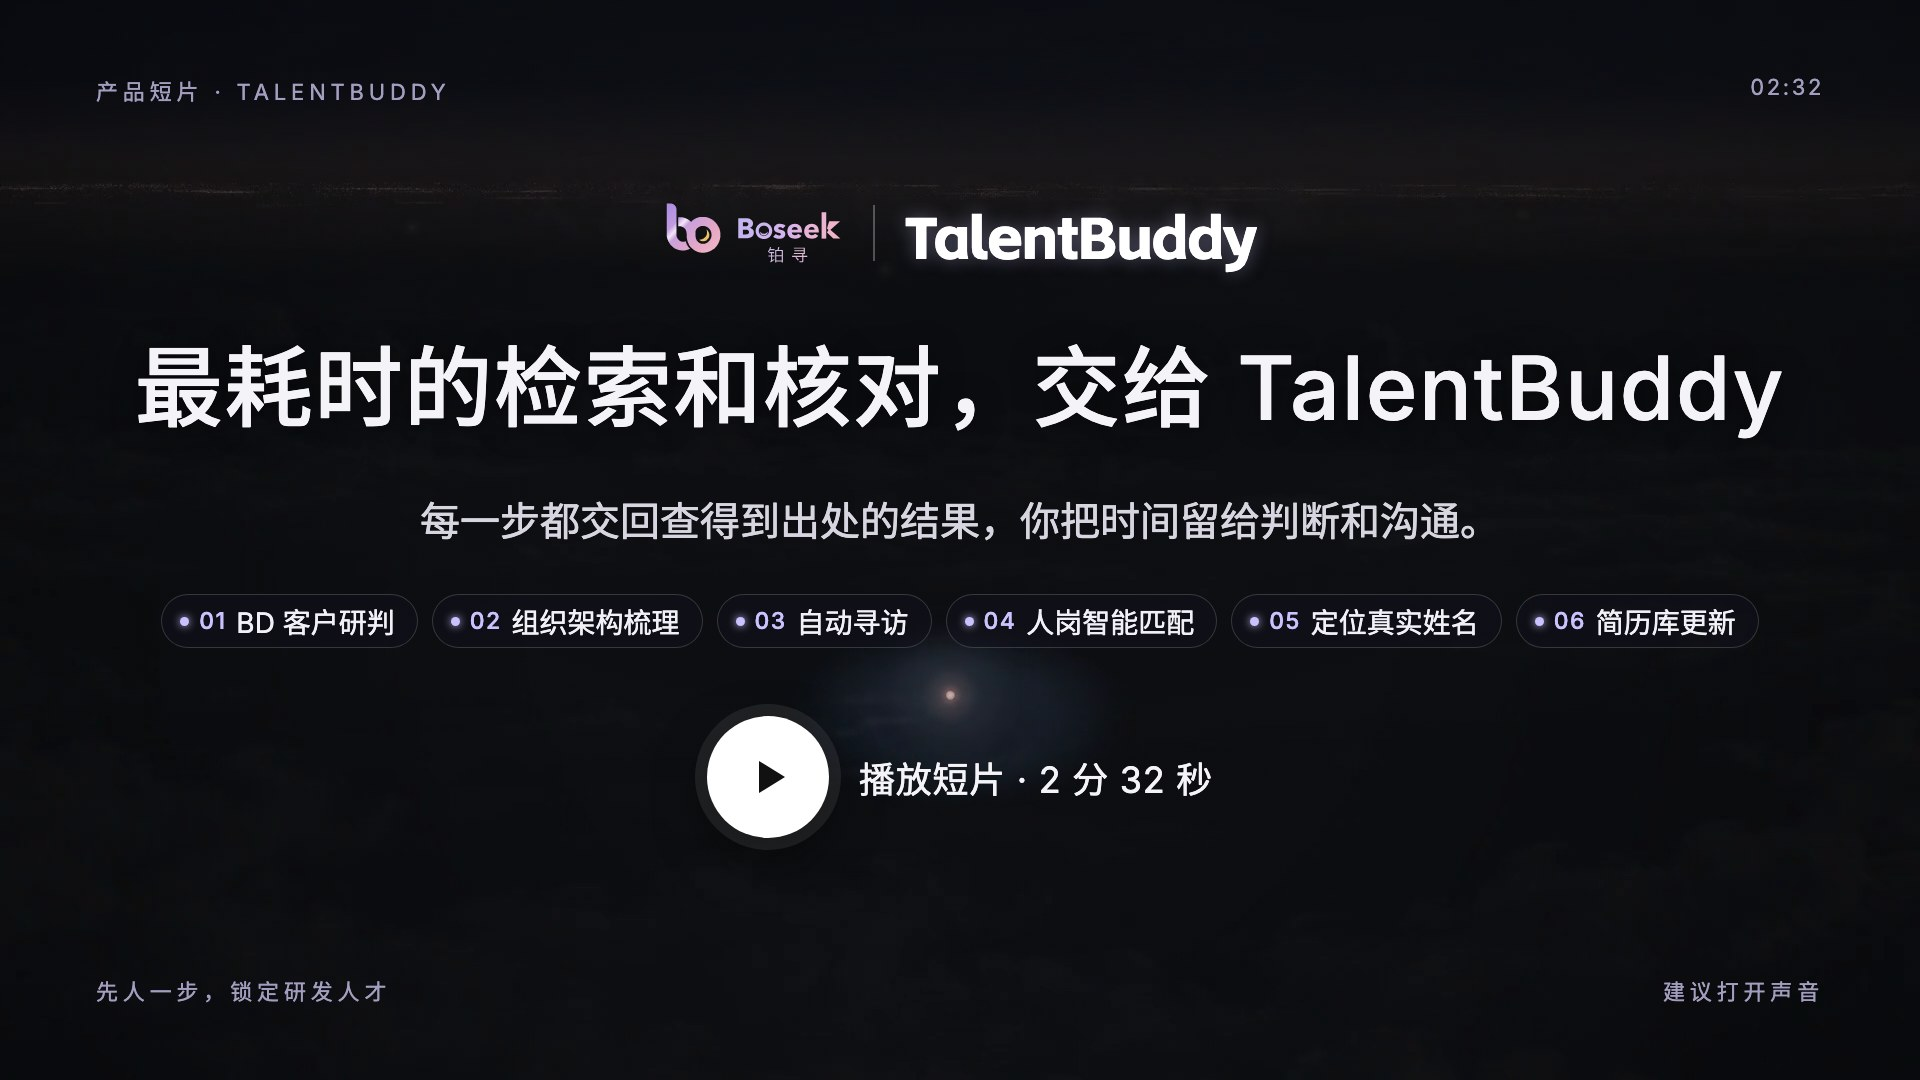
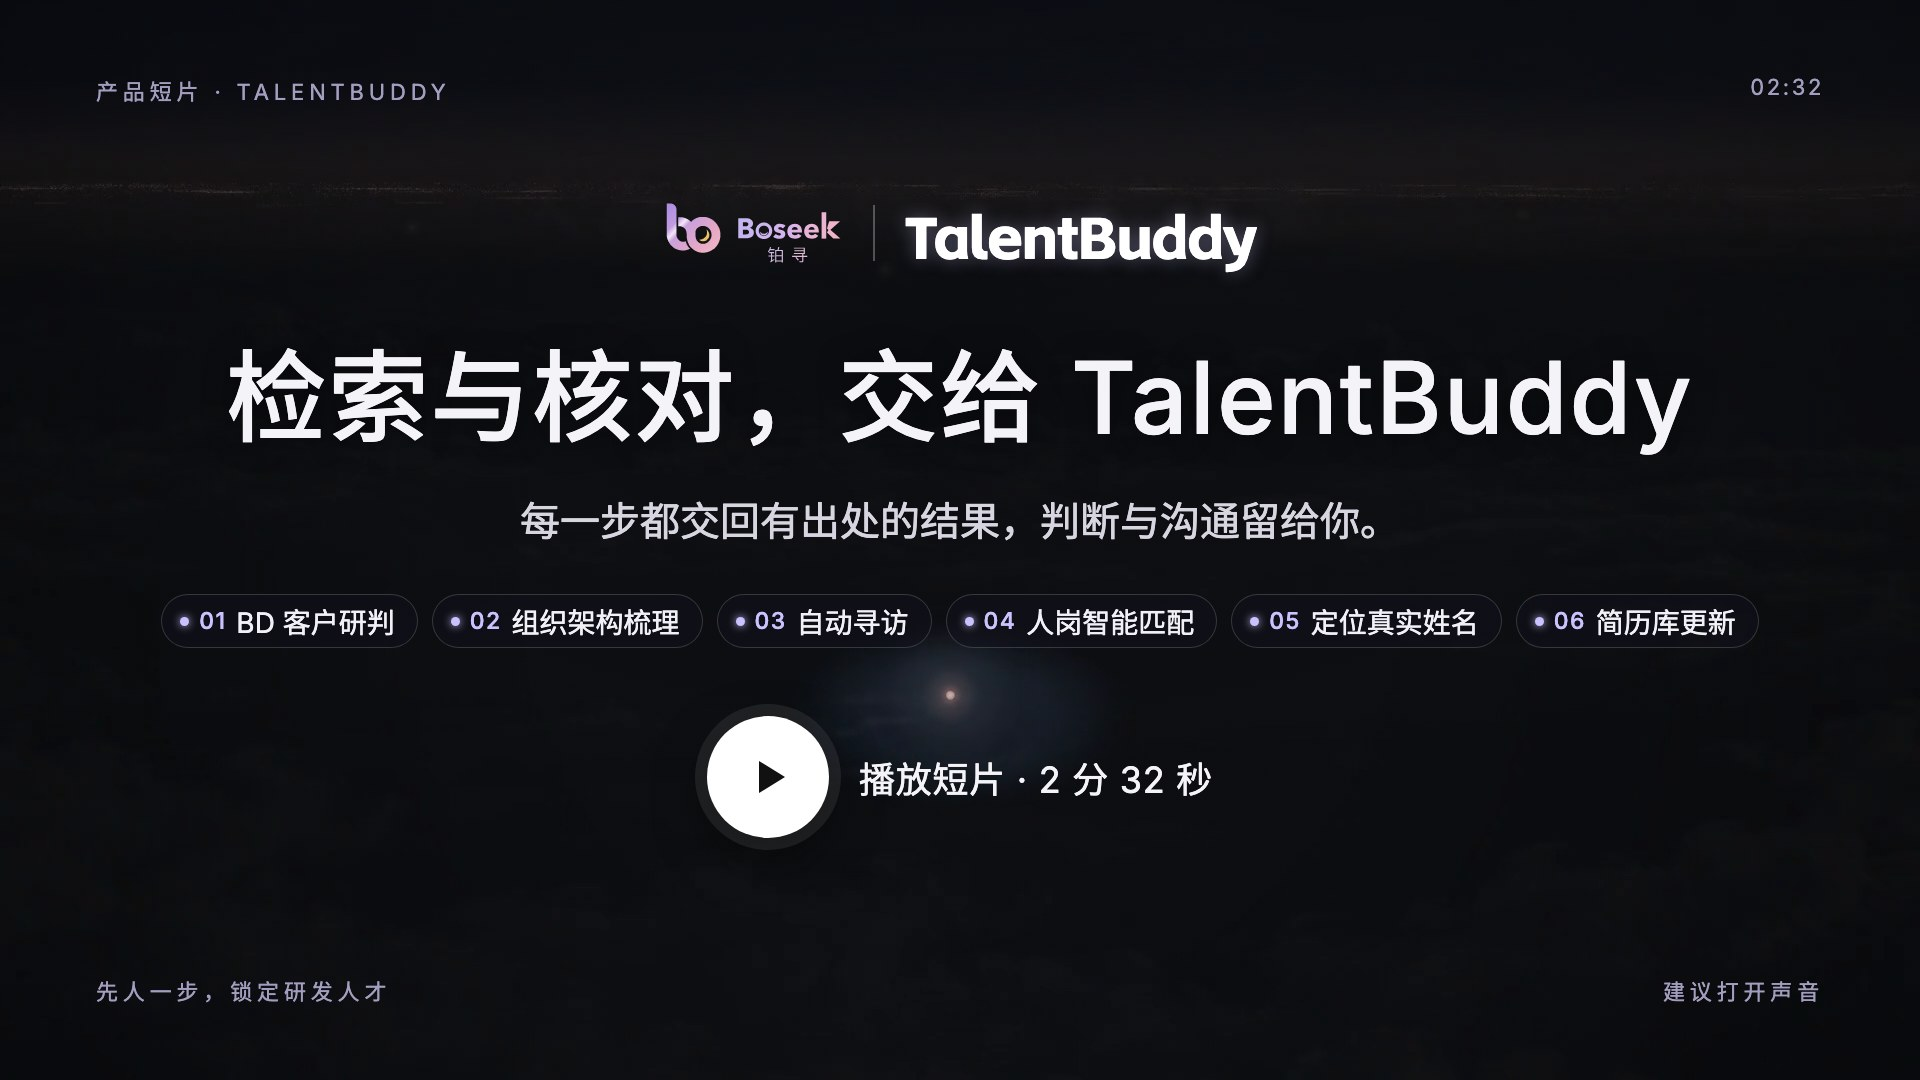
标题统一为主标语的文风：短片区“检索与核对，交给 TalentBuddy／判断与沟通，留给你”，能力区“六个环节，环环交付”，六张能力卡标题压成四字节奏，研发领域“跨行研发，一并覆盖”；短片封面同步；英文同步

Changed region(s): [[0.0625, 0.3056, 0.9375, 0.4278], [0.2188, 0.4583, 0.7812, 0.5194]]

diff --git a/public/landing-redesign/en/index.html b/public/landing-redesign/en/index.html
@@ -294,8 +294,8 @@
         <div class="n-wrap">
           <p class="n-kicker">Product video · 2:32</p>
           <h2 class="n-display" id="n-intro-title">
-            <span>Hand the searching and checking to TalentBuddy.</span>
-            <span>Spend your time on judgment and conversations.</span>
+            <span>Searching and checking go to TalentBuddy.</span>
+            <span>Judgment and conversations stay with you.</span>
           </h2>
           <p class="n-lede">
             From BD client research, org charts, sourcing and matching to identity checks and talent pool updates, every step hands back a sourced result.
@@ -324,7 +324,7 @@
         <div class="n-wrap">
           <div class="n-section-head n-section-head-wide">
             <p class="n-kicker">01 · Capabilities</p>
-            <h2 class="n-h2" id="n-caps-title">Six stages, six results you can use</h2>
+            <h2 class="n-h2" id="n-caps-title">Six stages, six deliverables</h2>
             <p class="n-sub">Matched shortlists, sourced candidate lists, identity checks, BD client research, change alerts and org charts, each with its source. Who to contact, and how to approach them, is your call.</p>
           </div>
 
@@ -358,7 +358,7 @@
               <div class="n-step-text">
                 <p class="n-step-meta"><i>Find</i><span>01 / 06</span></p>
                 <p class="n-pain">The JD names a technical field and years of experience, your database holds thousands of CVs, and comparing them one by one takes most of a day.</p>
-                <h3 id="n-step-match">Job matching: a shortlist from your CV database</h3>
+                <h3 id="n-step-match">Job matching: from thousands of CVs to a shortlist</h3>
                 <p>It breaks the JD into core skills, industry background and must-haves, then searches the full text of your CVs and their structured fields together. You get back a shortlist ranked by match score, with each candidate’s strengths, risks and why we recommend them, and one click takes you to the original source. It works the other way too: give it a CV and it finds the live searches that fit.</p>
                 <a class="n-more" href="use-cases/job-matching/">More on job matching</a>
                 <span class="n-step-bar" aria-hidden="true"><i class="is-on"></i><i></i><i></i><i></i><i></i><i></i></span>
@@ -394,7 +394,7 @@
               <div class="n-step-text">
                 <p class="n-step-meta"><i>Find</i><span>02 / 06</span></p>
                 <p class="n-pain">The clearest evidence of R&amp;D talent is in papers, patents and code. Search only on recruiting platforms, and many people never turn up.</p>
-                <h3 id="n-step-sourcing">Sourcing: find the people recruiting platforms miss</h3>
+                <h3 id="n-step-sourcing">Sourcing: beyond the platforms</h3>
                 <p>Working from the role’s requirements, it searches public information, papers, patents, open-source code and your CV database together, and checks the same person’s records from different places before merging them. You get back a ranked candidate list, with a note of which sources have been searched and which are not yet covered.</p>
                 <a class="n-more" href="use-cases/finding-candidates/">How headhunters find candidates</a>
                 <span class="n-step-bar" aria-hidden="true"><i></i><i class="is-on"></i><i></i><i></i><i></i><i></i></span>
@@ -427,7 +427,7 @@
               <div class="n-step-text">
                 <p class="n-step-meta"><i>Know</i><span>03 / 06</span></p>
                 <p class="n-pain">On papers it’s initials, in forums it’s an alias, and in a code repository it’s only a user ID. Working out who someone really is means comparing back and forth.</p>
-                <h3 id="n-step-identity">Identity checks: from an alias, initials or ID to who they are</h3>
+                <h3 id="n-step-identity">Identity checks: who’s behind the alias</h3>
                 <p>It cross-checks career history, timelines, research areas and public work, and rules out namesakes. You get back a written finding: who the person is, what that rests on, which namesakes were ruled out, how sure it is, and how you might reach them. It uses only public professional information and the material you provide, and anything uncertain is marked “To confirm”.</p>
                 <a class="n-more" href="use-cases/same-name-candidates/">More on identity checks</a>
                 <span class="n-step-bar" aria-hidden="true"><i></i><i></i><i class="is-on"></i><i></i><i></i><i></i></span>
@@ -454,7 +454,7 @@
               <div class="n-step-text">
                 <p class="n-step-meta"><i>Know</i><span>04 / 06</span></p>
                 <p class="n-pain">A funding round, a new R&amp;D department, fresh openings: there are plenty of signals, but not every one turns into a mandate.</p>
-                <h3 id="n-step-bd">BD client research (for headhunters): know which clients are worth pursuing</h3>
+                <h3 id="n-step-bd">BD client research (for headhunters): know who’s worth pursuing</h3>
                 <p>It looks at the industry outlook, funding news, the founders’ backgrounds, and hiring and business signals together. You get back BD client research that rates the real need, the ability to pay and the risk in working with them as “Sourced”, “To confirm” or “At risk”, with the reasons, plus the decision chain and a follow-up priority. Whether to pursue it is your call.</p>
                 <a class="n-more" href="use-cases/business-development/">More on business development</a>
                 <span class="n-step-bar" aria-hidden="true"><i></i><i></i><i></i><i class="is-on"></i><i></i><i></i></span>
@@ -486,7 +486,7 @@
               <div class="n-step-text">
                 <p class="n-step-meta"><i>Keep</i><span>05 / 06</span></p>
                 <p class="n-pain">R&amp;D people change roles, switch fields and publish new work quickly, and what your CV database says goes stale in a year or two.</p>
-                <h3 id="n-step-network">Talent pool updates: timely alerts when candidates move</h3>
+                <h3 id="n-step-network">Talent pool updates: alerts when candidates move</h3>
                 <p>For the candidates you choose, it regularly checks public profiles, papers and patents. When a role, field or responsibility changes, you get a change alert with its source. Nothing goes into your talent pool until you confirm it, and it never edits your records on its own.</p>
                 <a class="n-more" href="use-cases/talent-pool/">More on talent pools</a>
                 <span class="n-step-bar" aria-hidden="true"><i></i><i></i><i></i><i></i><i class="is-on"></i><i></i></span>
@@ -513,7 +513,7 @@
               <div class="n-step-text">
                 <p class="n-step-meta"><i>Keep</i><span>06 / 06</span></p>
                 <p class="n-pain">How a target company’s R&amp;D is organized, and who is responsible for what, has to be pieced together from its website, the news, papers and patents. When people move, the chart has to be redrawn.</p>
-                <h3 id="n-step-mapping">Org charts (mapping): an R&amp;D organization, in one chart</h3>
+                <h3 id="n-step-mapping">Org charts (mapping): an R&amp;D organization at a glance</h3>
                 <p>It gathers departments, key roles, the people in them and reporting lines, and hands back an org chart you can view by department, reporting line or project, with every past version kept. Each node names its source, and any reporting line not yet confirmed is marked “To confirm”. Org charts you already have in Excel can be imported and built on.</p>
                 <a class="n-more" href="use-cases/org-chart/">More on org charts</a>
                 <span class="n-step-bar" aria-hidden="true"><i></i><i></i><i></i><i></i><i></i><i class="is-on"></i></span>
@@ -554,8 +554,8 @@
         <div class="n-wall" data-wall aria-hidden="true"></div>
         <div class="n-wall-panel">
           <p class="n-kicker">03 · R&amp;D fields</p>
-          <h2 class="n-h2" id="n-industries-title">R&amp;D fields we cover</h2>
-          <p class="n-sub">R&amp;D roles in every industry, including newly created AI and large-model roles.</p>
+          <h2 class="n-h2" id="n-industries-title">R&amp;D roles, across industries</h2>
+          <p class="n-sub">Including the new AI and large-model roles opening in every industry.</p>
           <ul class="n-industry-list">
             <li>AI &amp; large models</li><li>Internet &amp; cloud</li><li>Embodied AI &amp; robotics</li><li>Smart vehicles</li><li>Semiconductors &amp; electronics</li><li>Pharma &amp; medical devices</li><li>Industrial manufacturing &amp; equipment</li><li>New energy &amp; storage</li><li>Nuclear fusion</li>
           </ul>

diff --git a/public/landing-redesign/index.html b/public/landing-redesign/index.html
@@ -294,8 +294,8 @@
         <div class="n-wrap">
           <p class="n-kicker">产品短片 · 2 分 32 秒</p>
           <h2 class="n-display" id="n-intro-title">
-            <span>最耗时的检索和核对，交给 TalentBuddy。</span>
-            <span>你把时间留给判断和沟通。</span>
+            <span>检索与核对，交给 TalentBuddy。</span>
+            <span>判断与沟通，留给你。</span>
           </h2>
           <p class="n-lede">
             从客户研判、组织架构、寻访、匹配，到身份核实和人才库更新，每一步都交回有出处的结果。
@@ -324,7 +324,7 @@
         <div class="n-wrap">
           <div class="n-section-head n-section-head-wide">
             <p class="n-kicker">01 · 核心能力</p>
-            <h2 class="n-h2" id="n-caps-title">六个环节，六份能直接用的结果</h2>
+            <h2 class="n-h2" id="n-caps-title">六个环节，环环交付</h2>
             <p class="n-sub">匹配短名单、寻访名单、核实结论、客户研判、变动提示、组织架构图，每条都有出处。联系谁、怎么谈，由你决定。</p>
           </div>
 
@@ -358,7 +358,7 @@
               <div class="n-step-text">
                 <p class="n-step-meta"><i>找人</i><span>01 / 06</span></p>
                 <p class="n-pain">JD 只写了技术方向和年限，库里却有几千份简历，逐份对比要花大半天。</p>
-                <h3 id="n-step-match">人岗匹配：从简历库里排出短名单</h3>
+                <h3 id="n-step-match">人岗匹配：千份简历，排出短名单</h3>
                 <p>把 JD 拆成核心技能、行业背景和硬性门槛，在简历全文和结构化信息中一并检索，交回按匹配分排序的短名单。每位人选附亮点、风险和推荐理由，一点即可查看原文出处。也可以反过来，为一份简历匹配在手岗位。</p>
                 <a class="n-more" href="use-cases/job-matching/">了解人岗匹配</a>
                 <span class="n-step-bar" aria-hidden="true"><i class="is-on"></i><i></i><i></i><i></i><i></i><i></i></span>
@@ -394,7 +394,7 @@
               <div class="n-step-text">
                 <p class="n-step-meta"><i>找人</i><span>02 / 06</span></p>
                 <p class="n-pain">研发人才的能力写在论文、专利和代码里，只在招聘平台上搜，很多人找不到。</p>
-                <h3 id="n-step-sourcing">寻访：招聘平台搜不到的人，也能找到</h3>
+                <h3 id="n-step-sourcing">寻访：平台之外，也能找到</h3>
                 <p>按岗位要求，同时检索公开信息、论文、专利、开源代码和你的简历库，同一个人的多处资料先核对再合并。交回排好序的人选名单，并标明哪些渠道已经找过、哪些尚未覆盖。</p>
                 <a class="n-more" href="use-cases/finding-candidates/">了解猎头怎么找人</a>
                 <span class="n-step-bar" aria-hidden="true"><i></i><i class="is-on"></i><i></i><i></i><i></i><i></i></span>
@@ -427,7 +427,7 @@
               <div class="n-step-text">
                 <p class="n-step-meta"><i>看清</i><span>03 / 06</span></p>
                 <p class="n-pain">论文署名是缩写，社区里是花名，代码仓库只有 ID，人到底是谁，往往要来回比对。</p>
-                <h3 id="n-step-identity">身份核实：从花名、缩写和 ID 查清是谁</h3>
+                <h3 id="n-step-identity">身份核实：花名缩写，查清是谁</h3>
                 <p>用任职经历、时间线、研究方向和公开作品交叉比对，排除同名。交回核实结论：是谁、依据是什么、排除了哪些同名、把握有多大，以及可行的联系途径。只用公开的职业信息和你提供的资料，拿不准的标为待确认。</p>
                 <a class="n-more" href="use-cases/same-name-candidates/">了解身份核实</a>
                 <span class="n-step-bar" aria-hidden="true"><i></i><i></i><i class="is-on"></i><i></i><i></i><i></i></span>
@@ -454,7 +454,7 @@
               <div class="n-step-text">
                 <p class="n-step-meta"><i>看清</i><span>04 / 06</span></p>
                 <p class="n-pain">融资、新设研发部门、挂出新职位，信号很多，但不是每一条都能变成委托。</p>
-                <h3 id="n-step-bd">BD 客户研判（猎头适用）：先判断哪家值得跟</h3>
+                <h3 id="n-step-bd">BD 客户研判（猎头适用）：哪家值得跟，心中有数</h3>
                 <p>综合行业前景、融资动态、创始人背景、岗位与业务信号，交回客户研判：真实需求、付费潜力、合作风险分别给出“有依据 / 待确认 / 有风险”的结论和理由，附决策链和跟进优先级。跟不跟，由你决定。</p>
                 <a class="n-more" href="use-cases/business-development/">了解客户开发</a>
                 <span class="n-step-bar" aria-hidden="true"><i></i><i></i><i></i><i class="is-on"></i><i></i><i></i></span>
@@ -486,7 +486,7 @@
               <div class="n-step-text">
                 <p class="n-step-meta"><i>沉淀</i><span>05 / 06</span></p>
                 <p class="n-pain">研发人才换岗、转方向、发新成果都很快，简历库的信息一两年就过时。</p>
-                <h3 id="n-step-network">人才库更新：人选有变动，及时提示</h3>
+                <h3 id="n-step-network">人才库更新：人选有变，及时提醒</h3>
                 <p>定期核对你指定人选的公开履历、论文和专利，任职、方向或职责一有变化，就交回附出处的变动提示。经你确认才写入人才库，不会擅自改动你的资料。</p>
                 <a class="n-more" href="use-cases/talent-pool/">了解人才库管理</a>
                 <span class="n-step-bar" aria-hidden="true"><i></i><i></i><i></i><i></i><i class="is-on"></i><i></i></span>
@@ -513,7 +513,7 @@
               <div class="n-step-text">
                 <p class="n-step-meta"><i>沉淀</i><span>06 / 06</span></p>
                 <p class="n-pain">目标公司的研发部门怎么分、谁负责什么，要从官网、新闻、论文和专利里一点点拼。人一变动，又得重画。</p>
-                <h3 id="n-step-mapping">组织架构梳理（Mapping）：研发组织，画成一张图</h3>
+                <h3 id="n-step-mapping">组织架构梳理（Mapping）：研发组织，一图看清</h3>
                 <p>汇总部门、关键岗位、任职人和汇报关系，交回一张组织架构图，可按部门、汇报线、项目切换查看，历史版本全部保留。每个节点附出处，未证实的汇报关系标为待确认。已有的 Excel 架构图可以导入后继续补充。</p>
                 <a class="n-more" href="use-cases/org-chart/">了解组织架构图</a>
                 <span class="n-step-bar" aria-hidden="true"><i></i><i></i><i></i><i></i><i></i><i class="is-on"></i></span>
@@ -554,8 +554,8 @@
         <div class="n-wall" data-wall aria-hidden="true"></div>
         <div class="n-wall-panel">
           <p class="n-kicker">03 · 研发领域</p>
-          <h2 class="n-h2" id="n-industries-title">覆盖的研发领域</h2>
-          <p class="n-sub">各行业的研发岗位，包括新开设的 AI 与大模型岗位。</p>
+          <h2 class="n-h2" id="n-industries-title">跨行研发，一并覆盖</h2>
+          <p class="n-sub">也包括各行业新开设的 AI 与大模型岗位。</p>
           <ul class="n-industry-list">
             <li>人工智能与大模型</li><li>互联网与云计算</li><li>具身智能与机器人</li><li>智能汽车</li><li>半导体与电子</li><li>医药与医疗器械</li><li>工业制造与装备</li><li>新能源与储能</li><li>核聚变</li>
           </ul>
